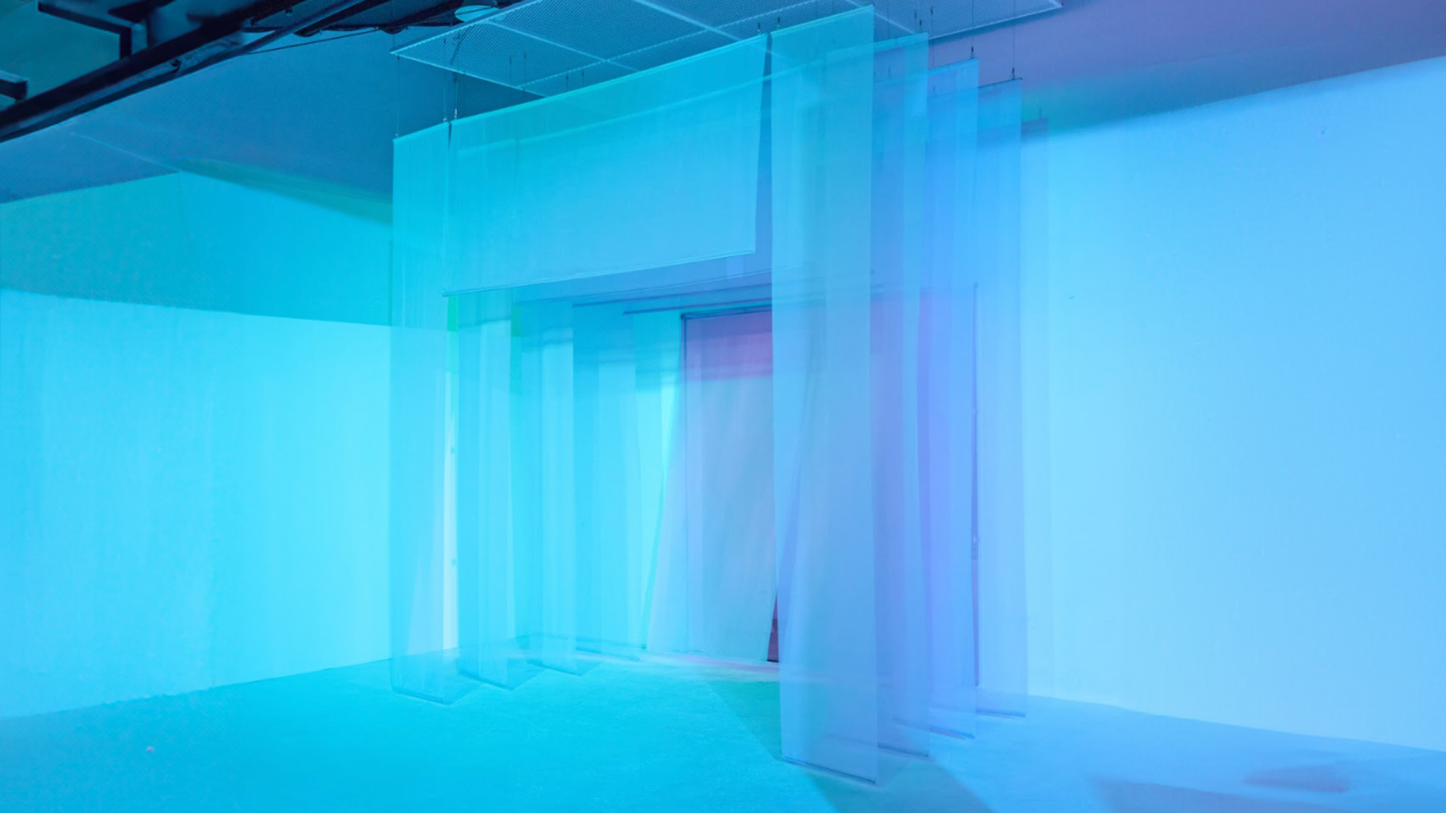
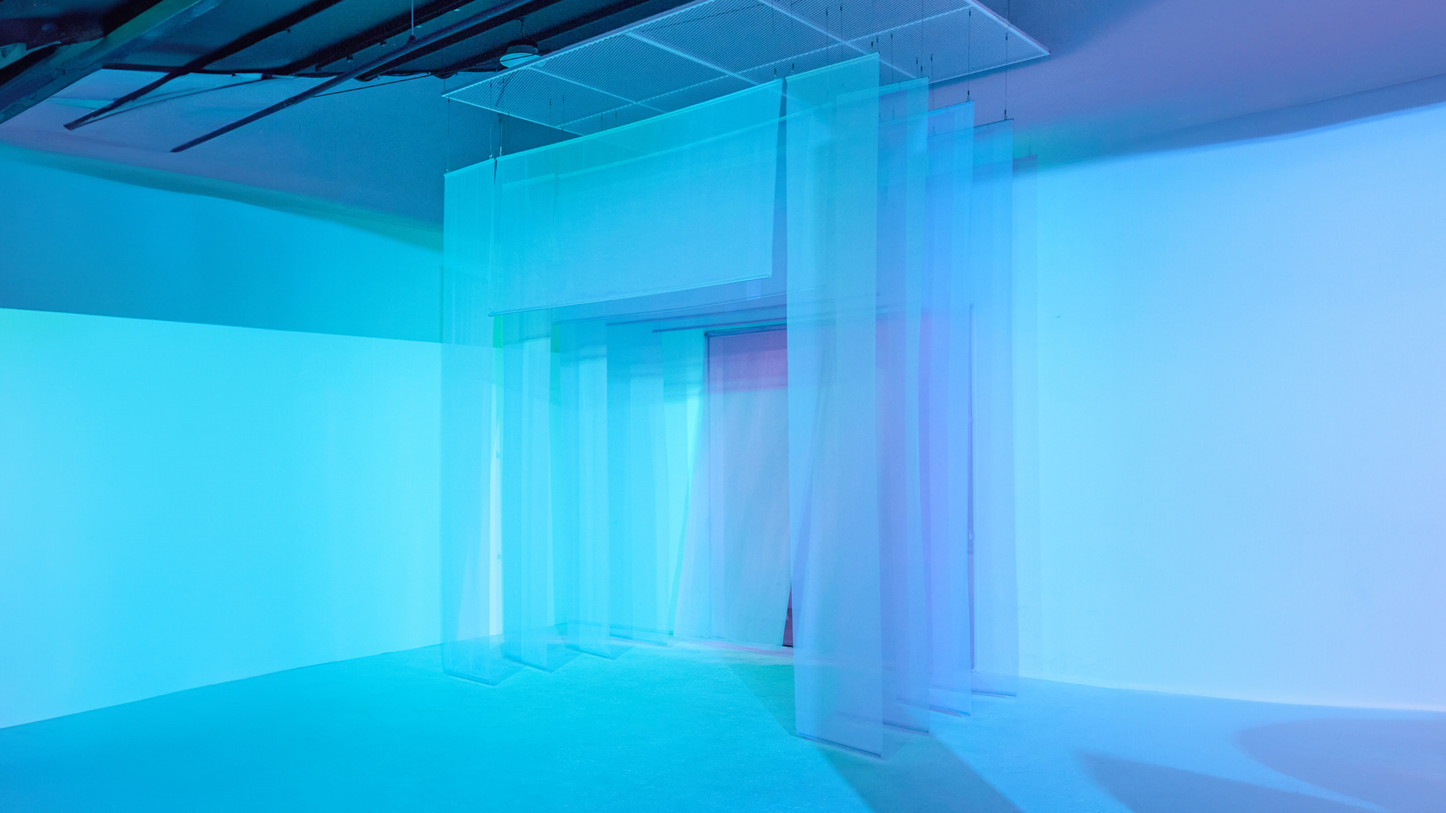
Update image 025 with SPATIAL DESIGN FOR OPENAI DEUTSCHLAND description

diff --git a/index.html b/index.html
@@ -383,7 +383,7 @@ const slides = [
   { type:'image', src:'images/022.jpg', description:'RISO WORKSHOP WITH KIDS', credits:'× LUMINARY CENTER' },
   { type:'image', src:'images/023.jpg', description:'IDENTITY FOR SORA SELECTS NEW YORK', credits:'× OPENAI DESIGN STUDIO' },
   { type:'image', src:'images/024.jpg', description:'OPENAI BRAND IDENTITY', credits:'× OPENAI DESIGN STUDIO, STUDIO DUMBAR' },
-  { type:'image', src:'images/025.jpg', description:'OPENAI DEUTSCHLAND', credits:'× OPENAI DESIGN STUDIO' },
+  { type:'image', src:'images/025.jpg', description:'SPATIAL DESIGN FOR OPENAI DEUTSCHLAND', credits:'× OPENAI DESIGN STUDIO' },
   { type:'image', src:'images/026.jpg', description:'MUSE GROUP BRAND IDENTITY', credits:'× COLLINS' },
   { type:'image', src:'images/027.jpg', description:'SPATIAL DESIGN FOR OPENAI KOREA', credits:'× OPENAI DESIGN STUDIO' },
   { type:'image', src:'images/028.jpg', description:'SPATIAL DESIGN FOR OPENAI KOREA', credits:'× OPENAI DESIGN STUDIO' },
